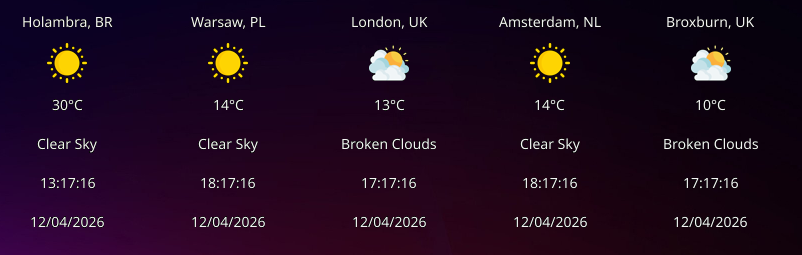
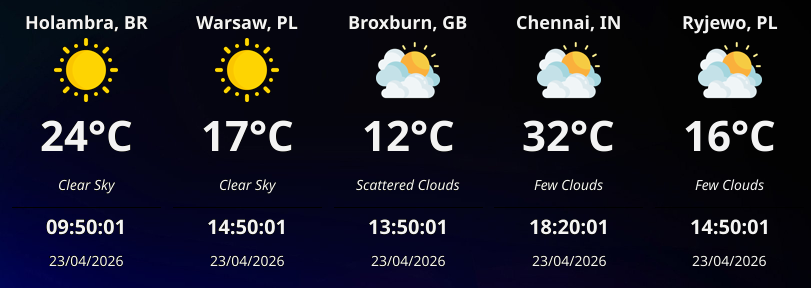
improved the widget panel appearance

diff --git a/internal/ui/panel/panel.go b/internal/ui/panel/panel.go
@@ -10,6 +10,7 @@ import (
 	"fyne.io/fyne/v2/canvas"
 	"fyne.io/fyne/v2/container"
 	"fyne.io/fyne/v2/layout"
+	"fyne.io/fyne/v2/theme"
 	"fyne.io/fyne/v2/widget"
 
 	"weatherwidget/assets"
@@ -20,10 +21,10 @@ import (
 type CityPanel struct {
 	container  *fyne.Container
 	iconWidget *canvas.Image
-	tempLabel  *widget.Label
+	tempText   *canvas.Text
 	descLabel  *widget.Label
-	cityLabel  *widget.Label
-	timeLabel  *widget.Label
+	cityText   *canvas.Text
+	timeText   *canvas.Text
 	dateLabel  *widget.Label
 	errorIcon  *canvas.Image
 
@@ -50,7 +51,7 @@ func NewCityPanel() *CityPanel {
 	res := loadIconFromAssets(weather.IconCloudy)
 	p.iconWidget = canvas.NewImageFromResource(res)
 	p.iconWidget.FillMode = canvas.ImageFillContain
-	p.iconWidget.SetMinSize(fyne.NewSize(40, 40))
+	p.iconWidget.SetMinSize(fyne.NewSize(64, 64))
 
 	// Error indicator icon — hidden by default.
 	p.errorIcon = canvas.NewImageFromResource(nil)
@@ -58,18 +59,25 @@ func NewCityPanel() *CityPanel {
 	p.errorIcon.SetMinSize(fyne.NewSize(16, 16))
 	p.errorIcon.Hide()
 
-	// Labels with placeholder text.
-	p.tempLabel = widget.NewLabel("--°C")
-	p.tempLabel.Alignment = fyne.TextAlignCenter
+	// Labels with appealing typography.
+	p.cityText = canvas.NewText("City, RG", theme.ForegroundColor())
+	p.cityText.TextSize = 18
+	p.cityText.TextStyle = fyne.TextStyle{Bold: true}
+	p.cityText.Alignment = fyne.TextAlignCenter
+
+	p.tempText = canvas.NewText("--°C", theme.ForegroundColor())
+	p.tempText.TextSize = 42
+	p.tempText.TextStyle = fyne.TextStyle{Bold: true}
+	p.tempText.Alignment = fyne.TextAlignCenter
 
 	p.descLabel = widget.NewLabel("--")
 	p.descLabel.Alignment = fyne.TextAlignCenter
+	p.descLabel.TextStyle = fyne.TextStyle{Italic: true}
 
-	p.cityLabel = widget.NewLabel("City, RG")
-	p.cityLabel.Alignment = fyne.TextAlignCenter
-
-	p.timeLabel = widget.NewLabel("--:--:--")
-	p.timeLabel.Alignment = fyne.TextAlignCenter
+	p.timeText = canvas.NewText("--:--:--", theme.ForegroundColor())
+	p.timeText.TextSize = 20
+	p.timeText.TextStyle = fyne.TextStyle{Bold: true}
+	p.timeText.Alignment = fyne.TextAlignCenter
 
 	p.dateLabel = widget.NewLabel("--/--/----")
 	p.dateLabel.Alignment = fyne.TextAlignCenter
@@ -77,15 +85,18 @@ func NewCityPanel() *CityPanel {
 	// Icon row: weather icon + error icon overlay.
 	iconRow := container.NewHBox(layout.NewSpacer(), p.iconWidget, p.errorIcon, layout.NewSpacer())
 
-	// Vertical stack: city, icon, temp, description, time, date.
-	p.container = container.NewVBox(
-		container.NewCenter(p.cityLabel),
+	// Vertical stack with extra breathing room and separators
+	p.container = container.NewPadded(container.NewVBox(
+		container.NewCenter(p.cityText),
+		layout.NewSpacer(),
 		iconRow,
-		container.NewCenter(p.tempLabel),
+		container.NewCenter(p.tempText),
 		container.NewCenter(p.descLabel),
-		container.NewCenter(p.timeLabel),
+		layout.NewSpacer(),
+		widget.NewSeparator(),
+		container.NewCenter(p.timeText),
 		container.NewCenter(p.dateLabel),
-	)
+	))
 
 	return p
 }
@@ -110,9 +121,13 @@ func (p *CityPanel) Update(data *weather.WeatherData) {
 	}
 
 	// Update labels.
-	p.tempLabel.SetText(weather.FormatTemperature(data.Temperature))
+	p.tempText.Text = weather.FormatTemperature(data.Temperature)
+	p.tempText.Refresh()
+	
 	p.descLabel.SetText(weather.FormatDescription(data.Description))
-	p.cityLabel.SetText(weather.FormatCityRegion(data.CityName, data.Region))
+	
+	p.cityText.Text = weather.FormatCityRegion(data.CityName, data.Region)
+	p.cityText.Refresh()
 
 	// Hide error indicator on successful update.
 	p.errorIcon.Hide()
@@ -158,7 +173,8 @@ func (p *CityPanel) StartClock(timezone string) {
 
 	// Set the time immediately before the first tick.
 	now := time.Now()
-	p.timeLabel.SetText(weather.FormatTime(now, timezone))
+	p.timeText.Text = weather.FormatTime(now, timezone)
+	p.timeText.Refresh()
 	p.dateLabel.SetText(weather.FormatDate(now, timezone))
 
 	go func() {
@@ -170,7 +186,8 @@ func (p *CityPanel) StartClock(timezone string) {
 				timeStr := weather.FormatTime(t, timezone)
 				dateStr := weather.FormatDate(t, timezone)
 				fyne.Do(func() {
-					p.timeLabel.SetText(timeStr)
+					p.timeText.Text = timeStr
+					p.timeText.Refresh()
 					p.dateLabel.SetText(dateStr)
 				})
 			}

diff --git a/internal/ui/panel/panel_test.go b/internal/ui/panel/panel_test.go
@@ -4,10 +4,12 @@ import (
 	"testing"
 	"time"
 
+	"fyne.io/fyne/v2/test"
 	"weatherwidget/internal/weather"
 )
 
 func TestNewCityPanel(t *testing.T) {
+	test.NewApp()
 	p := NewCityPanel()
 	if p == nil {
 		t.Fatal("NewCityPanel returned nil")
@@ -18,28 +20,28 @@ func TestNewCityPanel(t *testing.T) {
 	if p.iconWidget == nil {
 		t.Error("iconWidget is nil")
 	}
-	if p.tempLabel == nil {
-		t.Error("tempLabel is nil")
+	if p.tempText == nil {
+		t.Error("tempText is nil")
 	}
 	if p.descLabel == nil {
 		t.Error("descLabel is nil")
 	}
-	if p.cityLabel == nil {
-		t.Error("cityLabel is nil")
+	if p.cityText == nil {
+		t.Error("cityText is nil")
 	}
-	if p.timeLabel == nil {
-		t.Error("timeLabel is nil")
+	if p.timeText == nil {
+		t.Error("timeText is nil")
 	}
 	if p.errorIcon == nil {
 		t.Error("errorIcon is nil")
 	}
 
 	// Placeholder content checks.
-	if p.tempLabel.Text != "--°C" {
-		t.Errorf("tempLabel placeholder = %q, want %q", p.tempLabel.Text, "--°C")
+	if p.tempText.Text != "--°C" {
+		t.Errorf("tempText placeholder = %q, want %q", p.tempText.Text, "--°C")
 	}
-	if p.cityLabel.Text != "City, RG" {
-		t.Errorf("cityLabel placeholder = %q, want %q", p.cityLabel.Text, "City, RG")
+	if p.cityText.Text != "City, RG" {
+		t.Errorf("cityText placeholder = %q, want %q", p.cityText.Text, "City, RG")
 	}
 	if p.errorIcon.Visible() {
 		t.Error("errorIcon should be hidden initially")
@@ -47,6 +49,7 @@ func TestNewCityPanel(t *testing.T) {
 }
 
 func TestCityPanel_Container(t *testing.T) {
+	test.NewApp()
 	p := NewCityPanel()
 	c := p.Container()
 	if c == nil {
@@ -58,6 +61,7 @@ func TestCityPanel_Container(t *testing.T) {
 }
 
 func TestCityPanel_Update(t *testing.T) {
+	test.NewApp()
 	p := NewCityPanel()
 
 	data := &weather.WeatherData{
@@ -72,14 +76,14 @@ func TestCityPanel_Update(t *testing.T) {
 
 	p.Update(data)
 
-	if p.tempLabel.Text != "24°C" {
-		t.Errorf("tempLabel = %q, want %q", p.tempLabel.Text, "24°C")
+	if p.tempText.Text != "24°C" {
+		t.Errorf("tempText = %q, want %q", p.tempText.Text, "24°C")
 	}
 	if p.descLabel.Text != "Partial Sunny" {
 		t.Errorf("descLabel = %q, want %q", p.descLabel.Text, "Partial Sunny")
 	}
-	if p.cityLabel.Text != "Holambra, SP" {
-		t.Errorf("cityLabel = %q, want %q", p.cityLabel.Text, "Holambra, SP")
+	if p.cityText.Text != "Holambra, SP" {
+		t.Errorf("cityText = %q, want %q", p.cityText.Text, "Holambra, SP")
 	}
 	if p.errorIcon.Visible() {
 		t.Error("errorIcon should be hidden after successful update")
@@ -87,15 +91,17 @@ func TestCityPanel_Update(t *testing.T) {
 }
 
 func TestCityPanel_UpdateNil(t *testing.T) {
+	test.NewApp()
 	p := NewCityPanel()
 	// Should not panic.
 	p.Update(nil)
-	if p.tempLabel.Text != "--°C" {
-		t.Errorf("tempLabel should remain placeholder after nil update, got %q", p.tempLabel.Text)
+	if p.tempText.Text != "--°C" {
+		t.Errorf("tempText should remain placeholder after nil update, got %q", p.tempText.Text)
 	}
 }
 
 func TestCityPanel_ShowError(t *testing.T) {
+	test.NewApp()
 	p := NewCityPanel()
 
 	// Non-stale error.
@@ -115,6 +121,7 @@ func TestCityPanel_ShowError(t *testing.T) {
 }
 
 func TestCityPanel_ShowErrorThenUpdate(t *testing.T) {
+	test.NewApp()
 	p := NewCityPanel()
 	p.ShowError(false)
 	if !p.errorIcon.Visible() {
@@ -137,6 +144,7 @@ func TestCityPanel_ShowErrorThenUpdate(t *testing.T) {
 }
 
 func TestCityPanel_StartStopClock(t *testing.T) {
+	test.NewApp()
 	p := NewCityPanel()
 
 	p.StartClock("America/Sao_Paulo")
@@ -144,9 +152,9 @@ func TestCityPanel_StartStopClock(t *testing.T) {
 	// Give the ticker a moment to fire.
 	time.Sleep(1200 * time.Millisecond)
 
-	text := p.timeLabel.Text
+	text := p.timeText.Text
 	if text == "--/--/---- - --:--:--" {
-		t.Error("timeLabel should have been updated by the clock")
+		t.Error("timeText should have been updated by the clock")
 	}
 
 	p.StopClock()
@@ -156,6 +164,7 @@ func TestCityPanel_StartStopClock(t *testing.T) {
 }
 
 func TestCityPanel_StartClockReplacesExisting(t *testing.T) {
+	test.NewApp()
 	p := NewCityPanel()
 
 	p.StartClock("UTC")

diff --git a/README.md b/README.md
@@ -12,9 +12,17 @@ A compact weather widget for your desktop.
 
 ![Win32 Transparent Background](images/win32-transparent-background.png)
 
-**Weather Widget Settings**  
+**Weather Widget Location Settings**  
 
 ![Weather Widget Settings](images/weather-widget-sesstings.png)
+
+**Weather Widget Appearance Settings**  
+
+![Weather Widget Settings](images/weather-widget-sesstings-apperance.png)
+
+## Download
+
+You can download the latest pre-compiled binaries for Windows and Linux from the [GitHub Releases](https://github.com/gcclinux/WeatherWidget/releases) page.
 
 ## Compilation
 
